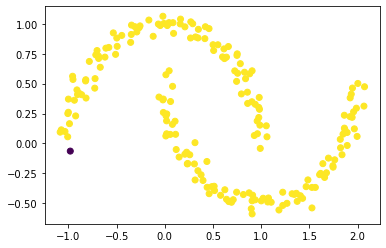
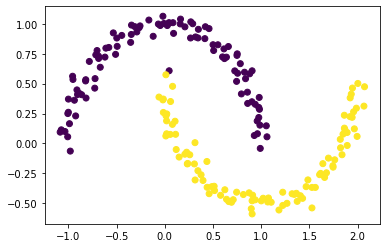
blog post 2 revision

Changed region(s): [[0.1244, 0.0565, 0.715, 0.621], [0.4352, 0.254, 0.4663, 0.3105]]

diff --git a/_posts/2021-04-26-blog-post-2.md b/_posts/2021-04-26-blog-post-2.md
@@ -82,7 +82,7 @@ We obtain a matrix of the pairwise distances in `X` by calling the pairwise_dist
 ```python
 epsilon = 0.4
 A = metrics.pairwise_distances(X)
-A = np.where(A > 0.4, 0, 1)
+A = np.where(A > epsilon, 0, 1)
 np.fill_diagonal(A, 0)
 A
 ```
@@ -121,13 +121,25 @@ def cut(A, y):
     clusters and we add that entry to the sum.
     """
     sum = 0
-    for i in range(X.shape[0]):
-        for j in range(X.shape[0]):
+    for i in range(len(y)):
+        for j in range(len(y)):
             if y[i] != y[j]:
                 sum += A[i][j]
 
     return sum
 ```
+
+{::options parse_block_html="true" /}
+<div class="got-help">
+Used len(y) instead of X.shape[0] as the range parameter since X is not an input parameter to the cut function.
+</div>
+{::options parse_block_html="false" /}
+
+{::options parse_block_html="true" /}
+<div class="gave-help">
+I think I made a good suggestion to one of my peers for the cut function. Instead of using list comprehension to find which points belong to which cluster, you can directly check in the nested for loop if the points belong to different clusters by indexing the list of labels y. If they belong to different clusters, then the sum is added to the cut.
+</div>
+{::options parse_block_html="false" /}
 
 Let's test our cut function. We can compute the cut objective for the true clusters `y`, as well as compute the cut objective for a random vector of size `n` that contains labels that either equal 0 or 1.
 
@@ -230,11 +242,15 @@ This function takes in a similarity matrix A and an array of labels y and comput
 y in which y is 0, then z is 1 / vol(c0), and for indices of y in which y is 1, then z is -1 / vol(c1).
 """
 v0, v1 = vols(A, y)
-z = np.zeros(shape = (y.shape[0], 1))
-z[y == 0] = 1/v0
-z[y == 1] = -1/v1
+z = 1 / v0 * (y == 0) -1 / v1 * (y == 1)
 return z
 ```
+
+{::options parse_block_html="true" /}
+<div class="got-help">
+When initializing the z vector, you can complete the boolean subsetting on the same line of code as the initialization by multiplying the z values with the boolean subsets. This is a neat trick that completes the task in one line of code rather than my original three lines of code.
+</div>
+{::options parse_block_html="false" /}
 
 Using linear algebra, we can check to see if the below equation holds:
 
@@ -251,7 +267,7 @@ eq = 2 * (z.T @ (D - A) @ z) / (z.T @ D @z)
 np.isclose(normcut(A, y), eq)
 ```
 
-    array([[ True]])
+    True
 
 We get that the two sides of the equation are equal.
 
@@ -262,13 +278,13 @@ one = np.ones(n)
 np.isclose(z.T @ D @ one, 0)
 ```
 
-    array([ True])
+    True
 
 Again, we get that our identity holds.
 
 ## Part D
 
-From the previous part, we computed a linear algebra equation that is equal to the norm cut in our goal to minimize the norm cut. We can use `scipy.optimize` to minimize our `z` while also including the identity $$\mathbf{z}^T\mathbf{D}\mathbb{1} = 0$$ in the optimization. We do this by defining an `orth_obj` function and calling it on `z`.
+From the previous part, we computed a linear algebra equation that is equal to the norm cut in our goal to minimize the norm cut. We can use `scipy.optimize` to minimize our `z` while also including the identity $$\mathbf{z}^T\mathbf{D}\mathbb{1} = 0$$ in the optimization. We do this by defining an `orth_obj` function and calling it on a random point `n`.
 
 ```python
 def orth(u, v):
@@ -286,8 +302,14 @@ def orth_obj(z):
 ```python
 # minimizing orth_obj with respect to z
 import scipy.optimize
-z_ = scipy.optimize.minimize(orth_obj, z)
+z_ = scipy.optimize.minimize(orth_obj, np.random.rand(n))
 ```
+
+{::options parse_block_html="true" /}
+<div class="got-help">
+When minimizing the norm cut, instead of calling `minimize` on `z`, instead we call `minimize` on a random point `n`, which produces a much better clustering result compared to what I had previously!
+</div>
+{::options parse_block_html="false" /}
 
 We get an array that we define as `z_`. To find `z_min`, which is the solution of the optimization, we set it equal to `z_.x`.
 
@@ -309,17 +331,7 @@ plt.scatter(X[:,0], X[:,1], c = color)
 
 ![output_55_1.png](/images/output_55_1.png)
 
-We see that if we set the threshold as `0`, we don't come anywhere close to correctly clustering the data. This is because most of the values in `z_min` are very small negative numbers that are close to `0`. So if we adjust our threshold to be a small negative number like -`0.0015`, then the clusters look more even.
-
-```python
-np.random.seed(1234)
-n = 200
-X, y = datasets.make_moons(n_samples=n, shuffle=True, noise=0.05, random_state=None)
-color = np.where(z_min >= -0.0015, 0, 1)
-plt.scatter(X[:,0], X[:,1], c = color)
-```
-
-![corrected.png](/images/corrected.png)
+We see that we obtain a great result! The two crescents are clustered almost perfectly.
 
 ## Part F
 
@@ -371,18 +383,27 @@ def spectral_clustering(X, epsilon):
   A and D, obtaining the eigenvalues and eigenvectors. We obtain the second smallest eigenvector z_eig and use it to construct
   the array of labels. z_eig values greater than or equal to 0 belong to one cluster, while z_eig values less than 0 belong
   to another cluster.
+
+  Input: the array of data points X, the distance parameter epsilon
+  Output: the list of cluster labels z_eig
   """
-  A = metrics.pairwise_distances(X)
-  A = np.where(A > 0.4, 0, 1)
-  np.fill_diagonal(A, 0)
-  D = np.diag(A.sum(axis = 1))
-  L = np.linalg.inv(D) @ (D - A)
-  Lam, U = np.linalg.eig(L)
-  ix = Lam.argsort()
-  Lam, U = Lam[ix], U[:,ix]
-  z_eig = np.where(U[:,1] >= 0, 0, 1)
+  A = metrics.pairwise_distances(X) # computes the distances between points in X
+  A = np.where(A > 0.4, 0, 1) # fills the A matrix with 0s and 1s depending on the magnitude of the pairwise distance
+  np.fill_diagonal(A, 0) # fills the diagonal of A with 0s
+  D = np.diag(A.sum(axis = 1)) # computes the diagonal matrix defined in part C
+  L = np.linalg.inv(D) @ (D - A) # computes the Laplacian matrix
+  Lam, U = np.linalg.eig(L) # obtains the eigenvalues and eigenvectors
+  ix = Lam.argsort() # defines the sorting parameter
+  Lam, U = Lam[ix], U[:,ix] # sorts the eigenvalues and eigenvectors from smallest to largest
+  z_eig = np.where(U[:,1] >= 0, 0, 1) # constructing the array of labels using the second smallest eigenvector
   return z_eig
-  ```
+```
+
+{::options parse_block_html="true" /}
+<div class="got-help">
+Added additional documentation to the spectral_clustering method for clarity.
+</div>
+{::options parse_block_html="false" /}
 
 Great! Now that we have a compact `spectral_clustering` function, we can pass it as a color argument to the `scatter` function and see how we did with the clustering. The result should be the same as what we obtained in **Part F**.
 
@@ -411,6 +432,25 @@ plt.scatter(X[:,0], X[:,1], c = spectral_clustering(X, 0.4))
 ![output_67_1.png](/images/output_67_1.png)
 
 Uh-oh. Seems like the clustering doesn't work quite so well on larger `noise` parameters. Instead of clustering in crescent shapes, we see that the clusters are more circular/blob-like.
+
+What if we lower the `noise` to `0.01`?
+
+```python
+np.random.seed(1234)
+n = 1000
+X, y = datasets.make_moons(n_samples=n, shuffle=True, noise=0.01, random_state=None)
+plt.scatter(X[:,0], X[:,1], c = spectral_clustering(X, 0.4))
+```
+
+![output_68_1.png](/images/output_68_1.png)
+
+We see that spectral clustering works extremely well on low `noise` parameters. It seems like `noise` affects the variance in the data. A higher `noise` parameter will cause the data points to be much more spread out, creating issues for spectral clustering. On the other hand, a lower `noise` parameter will cause the data points to be closer together, making it easier for spectral clustering to determine the clusters.
+
+{::options parse_block_html="true" /}
+<div class="got-help">
+Added some additional noise testing to give the reader a better understanding of how noise affects spectral clustering.
+</div>
+{::options parse_block_html="false" /}
 
 ## Part I
 
@@ -470,4 +510,10 @@ plt.scatter(X[:,0], X[:,1], c = spectral_clustering(X, 0.9))
 
 For this test, we specify our `epsilon` value to be `0.9`. Again, we run into some problems; this time, it seems that our `spectral_clustering` function has drawn some sort of invisible line through the data. Everything above that line belongs to one cluster, while everything below that line belongs to another cluster.
 
-So, it seems that for the bull's eye data set, the optimal `epsilon` value hovers around `0.5`.
+So, it seems that for the bull's eye data set, the optimal `epsilon` value hovers around `0.4`.
+
+{::options parse_block_html="true" /}
+<div class="gave-help">
+For the most part I think my peers' code and writing were very good, so I didn't need to point out many tricks to make their code more efficient. Instead, I mostly suggested things to make their code more readable; for example, using .T instead of .transpose() in a very long line of code that defines the linear algebra equation makes the code a little less messy. Also, I suggested to some of my peers to use more of their own explanations when it came to talking about the functions they wrote. To a PIC 16A student, I think reading some of the code for the first time could be a bit confusing. When I was first doing the assignment I was confused on how to write the cut and volume functions, so I suggested that some of my peers explain their coding process so it's easier for the reader to understand.
+</div>
+{::options parse_block_html="false" /}
